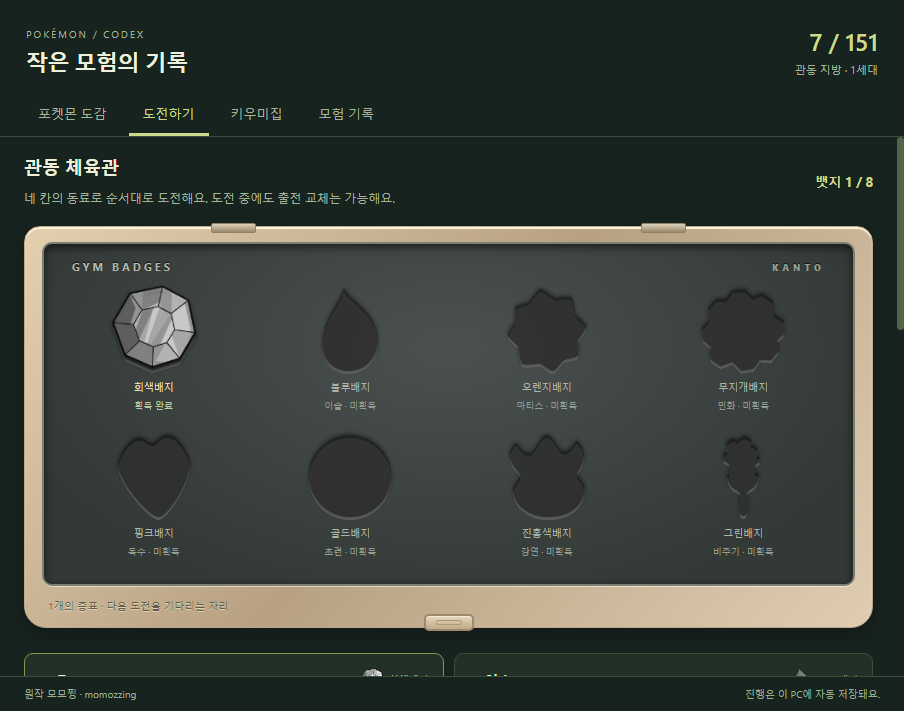
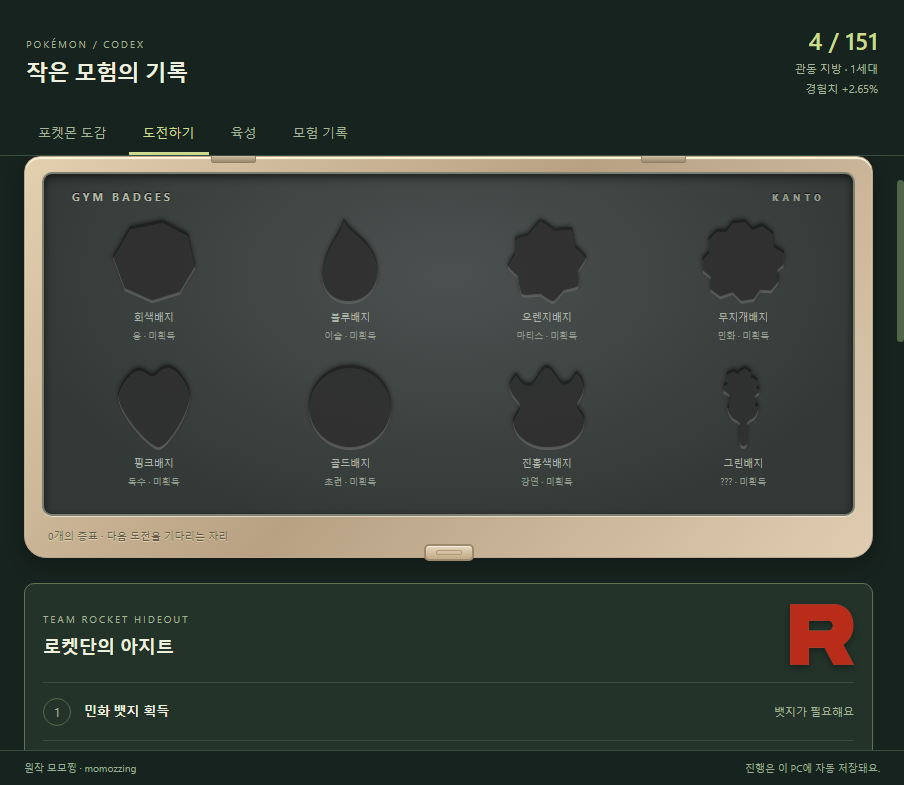
Keep the last gym leader and champion secret until encountered

diff --git a/desktop/panels.js b/desktop/panels.js
@@ -65,12 +65,13 @@ function teamMembers(team){
   for(const p of team){const mon=node('span');mon.title='No.'+p.id+' · Lv.'+p.level;mon.append(img(p.id),document.createTextNode('Lv.'+p.level));row.append(mon);}
   return row;
 }
+function trainerTeam(boss){return boss.revealed===false?node('p','muted','포켓몬 편성 미공개'):teamMembers(boss.team);}
 let shownBadges=null;
 function badgeImage(boss,className=''){
   const image=node('img',className);image.src='assets/badges/'+boss.id+'.png';image.alt='';image.draggable=false;return image;
 }
 function renderBadgeCase(){
-  const earned=new Set(state.badges),signature=state.badges.join(',');
+  const earned=new Set(state.badges),signature=JSON.stringify([state.badges,state.bosses.slice(0,8).map(b=>b.revealed)]);
   if($('badge-slots').dataset.signature===signature)return;
   $('badge-slots').dataset.signature=signature;
   $('badge-slots').replaceChildren(...state.bosses.slice(0,8).map((boss,i)=>{
@@ -87,19 +88,22 @@ function renderBadgeCase(){
 }
 function renderBosses(){
   renderStory();
-  const busy=state.battle?.kind==='trainer',queued=state.pendingChallenge,signature=JSON.stringify([state.badges,state.gymAccess,state.trainingDevice.routeOpen,state.battle,queued,state.champion,state.leagueBest,state.johtoUnlocked,state.johtoDeferred,state.kantoCaughtCount,state.encounterBonus]);if(signature===bossSignature)return;bossSignature=signature;
+  const busy=state.battle?.kind==='trainer',queued=state.pendingChallenge,signature=JSON.stringify([state.badges,state.bosses.map(b=>b.revealed),state.gymAccess,state.trainingDevice.routeOpen,state.battle,queued,state.champion,state.leagueBest,state.johtoUnlocked,state.johtoDeferred,state.kantoCaughtCount,state.encounterBonus]);if(signature===bossSignature)return;bossSignature=signature;
   $('badges').textContent='뱃지 '+state.badges.length+' / 8';
   renderBadgeCase();
   $('gyms').replaceChildren(...state.bosses.slice(0,8).map((boss,i)=>{
     const done=state.badges.includes(boss.id),card=node('article','gym'+(done?' done':'')),title=node('div','gym-title'),badge=node('span','badge');badge.append(badgeImage(boss,'gym-badge'),document.createTextNode(boss.badge));title.append(node('h3','',(i+1)+'. '+boss.name),badge);
-    const body=node('div','gym-body'),info=node('div','gym-info'),face=node('div','gym-portrait'),portrait=node('img','gym-trainer'),[width,x,y,size]=trainerFaces[boss.id];portrait.src='assets/trainers/'+boss.id+'.png';portrait.alt=boss.name+' · 원작 얼굴 초상화';portrait.draggable=false;portrait.style.width=width/size*100+'%';portrait.style.left=-x/size*100+'%';portrait.style.top=-y/size*100+'%';face.dataset.trainer=boss.id;face.append(portrait);info.append(title,teamMembers(boss.team));body.append(info,face);card.append(body);
+    const body=node('div','gym-body'),info=node('div','gym-info'),face=node('div','gym-portrait');face.dataset.trainer=boss.id;
+    if(boss.revealed===false){face.classList.add('unknown');face.textContent='?';face.setAttribute('aria-label','아직 만나지 않은 관장');}
+    else{const portrait=node('img','gym-trainer'),[width,x,y,size]=trainerFaces[boss.id];portrait.src='assets/trainers/'+boss.id+'.png';portrait.alt=boss.name+' · 원작 얼굴 초상화';portrait.draggable=false;portrait.style.width=width/size*100+'%';portrait.style.left=-x/size*100+'%';portrait.style.top=-y/size*100+'%';face.append(portrait);}
+    info.append(title,trainerTeam(boss));body.append(info,face);card.append(body);
     const roadLocked=i===4&&!state.trainingDevice.routeOpen,b=node('button','',done?'뱃지 획득 완료':queued?.index===i?'도전 예약됨':roadLocked?'길을 막는 잠만보 해결 시 해금':i>state.badges.length?'앞선 체육관 뱃지가 필요해요':'도전하기');b.dataset.challenge=i;b.disabled=done||busy||!!queued||!state.gymAccess[i];b.onclick=()=>window.buddy.action('challenge',i);card.append(b);return card;
   }));
   $('ongoing').hidden=!busy&&!queued;
   if(queued){$('ongoing').replaceChildren(node('span','',queued.name+' 도전 예약 · '+(state.battle?'현재 배틀이 끝나면 시작해요.':'마지막 연출이 끝나면 시작해요.')));const b=node('button','','예약 취소');b.dataset.cancelChallenge='';b.onclick=()=>window.buddy.action('challenge-cancel');$('ongoing').append(b);}
   else if(busy){$('ongoing').replaceChildren(node('span','',state.battle.boss+' · '+(state.battle.foeIndex+1)+' / '+state.battle.teamSize+'마리와 배틀 중'));const b=node('button','','도전 그만두기');b.onclick=()=>window.buddy.action('abandon');$('ongoing').append(b);}
   $('league-start').disabled=state.badges.length<8||busy||!!queued;$('league-start').textContent=queued?.index===8?'리그 도전 예약됨':state.champion?'리그 재도전':'리그 도전';
-  $('league-team').replaceChildren(...state.bosses.slice(8).map((b,i)=>{const e=node('article','league-member');e.append(node('h3','',(i===4?'챔피언 ':'')+b.name),teamMembers(b.team));return e;}));
+  $('league-team').replaceChildren(...state.bosses.slice(8).map((b,i)=>{const e=node('article','league-member');e.append(node('h3','',(i===4?'챔피언 ':'')+b.name),trainerTeam(b));return e;}));
   $('league-progress').textContent=state.champion?(state.johtoUnlocked?'관동 챔피언 · 성도 지방 해금 완료':'관동 챔피언 · 151종을 모으며 머물거나 원할 때 2세대를 해금하세요.'):'리그 최고 기록 '+state.leagueBest+' / 5 · 챔피언이 되면 출현 보너스와 2세대 해금 선택권을 얻어요.';
   $('johto-choice').hidden=!state.champion;
   if(state.champion){

diff --git a/desktop/panels.css b/desktop/panels.css
@@ -1,4 +1,5 @@
 :root{--bg:#17231e;--panel:#233128;--line:#3a4c3c;--ink:#eef0de;--muted:#a4b499;--accent:#cbda8d;color-scheme:dark}
+.gym-portrait.unknown{display:grid;place-items:center;color:var(--muted);font-size:34px;font-weight:300}
 .rocket-heading{display:flex;align-items:center;justify-content:space-between;gap:18px;margin-bottom:16px}.rocket-heading h2{margin-bottom:0!important}.rocket-logo{width:64px;height:64px;object-fit:contain;flex-shrink:0;filter:drop-shadow(0 3px 3px #0005)}.gym-body{display:flex;align-items:center;gap:14px;margin-bottom:12px;min-height:100px}.gym-info{flex:1;min-width:0}.gym-info .gym-title{flex-wrap:wrap;align-items:flex-start;gap:7px}.gym-portrait{position:relative;overflow:hidden;width:88px;height:88px;flex-shrink:0;border:1px solid #526348;border-radius:7px;background:#172a20}.gym-trainer{position:absolute;height:auto;max-width:none;pointer-events:none;filter:drop-shadow(0 2px 2px #0004)}@media(max-width:750px){.gym-body{gap:10px;min-height:84px}.gym-portrait{width:72px;height:72px}.rocket-logo{width:54px;height:54px}}
 .story-board{padding:18px;margin-bottom:18px;border:1px solid #607253;border-radius:10px;background:#233329}.story-board h2{font-size:18px;margin:8px 0 16px}.story-board>p{font-size:12px;line-height:1.7}.rocket-steps{list-style:none;counter-reset:rocket-step;margin:0;padding:0}.rocket-step{counter-increment:rocket-step;display:flex;align-items:center;gap:13px;padding:12px 0;border-top:1px solid var(--line);min-height:58px}.rocket-step::before{content:counter(rocket-step);display:grid;place-items:center;flex:0 0 26px;height:26px;border:1px solid #56674a;border-radius:50%;font-size:12px;color:var(--muted)}.rocket-step b{flex:1;font-size:13px;line-height:1.6}.rocket-step>.muted{font-size:11px}.rocket-step.done::before{color:var(--accent);border-color:#839550}.rocket-step.done b{color:var(--accent)}.rocket-step button{min-width:96px;font-size:11px;margin:0}.snorlax-encounter{display:flex;align-items:center;gap:20px;padding:12px;background:#172a20;border-radius:7px}.snorlax-sprite{width:80px;height:80px;object-fit:contain;image-rendering:pixelated}.snorlax-body b{font-size:13px}.snorlax-body p{font-size:11px;margin:7px 0}.snorlax-body button{font-size:11px;margin:0}.device-quest>#device-locked{margin:0;font-size:11px}@media(max-width:750px){.story-board{padding:15px}.rocket-step{gap:10px}.rocket-step b{font-size:12px}.rocket-step button{min-width:85px}.snorlax-encounter{gap:14px}}
 .flute-status{display:flex;align-items:center;gap:12px;margin:12px 0;padding:10px;background:#172a20;border-radius:7px}.flute-status img{width:48px;height:48px;image-rendering:pixelated}.flute-status b{font-size:12px;color:var(--accent)}.flute-status p{font-size:11px;line-height:1.6;color:var(--muted);margin:5px 0}

diff --git a/README.md b/README.md
@@ -6,7 +6,7 @@
 
 **[Windows 실행 파일 받기 · 최신 릴리스](https://github.com/Bakzzi/Pokemon_codex/releases/latest)**
 
-릴리스의 `Pokemon-Codex-0.3.28-portable.zip`을 받아 압축을 풀고 `PokemonCodex.exe`를 실행하세요. ZIP 안의 폴더와 파일을 함께 유지하면 됩니다. 소스 코드 ZIP은 실행 파일 배포본과 다릅니다.
+릴리스의 `Pokemon-Codex-0.3.29-portable.zip`을 받아 압축을 풀고 `PokemonCodex.exe`를 실행하세요. ZIP 안의 폴더와 파일을 함께 유지하면 됩니다. 소스 코드 ZIP은 실행 파일 배포본과 다릅니다.
 
 ![코딩과 함께하는 포켓몬 위젯](docs/screenshots/widget.png)
 
@@ -142,15 +142,15 @@ PokeAPI의 파이어레드·리프그린 레벨업 기술표, 3세대 당시 위
 
 **관동 뱃지 홀더**에 여덟 뱃지가 두 줄로 놓입니다. 미획득 칸은 해당 뱃지 모양으로 파인 빈 홈이며, 관장에게 승리하면 실제 뱃지 이미지가 자리 잡고 짧게 빛납니다. 기존에 얻은 뱃지도 저장된 획득 상태에 맞춰 나타납니다. 뱃지 칸을 누르면 해당 체육관으로 이동합니다.
 
-로켓단 아지트에는 원작 R 마크를 표시하며, 여덟 관장 카드에는 파이어레드·리프그린 원작 일러스트의 **얼굴 부분을 초상화로** 표시합니다. 관장마다 얼굴 위치를 맞추고 이름·뱃지·포켓몬 편성과 함께 배치합니다. 그림은 앱에 포함해 로컬에서 불러옵니다. 원본 출처와 파일 해시는 `desktop/assets/trainers/sources.json`, `desktop/assets/logos/sources.json`에 기록했습니다.
+로켓단 아지트에는 원작 R 마크를 표시하며, 관장 카드에는 파이어레드·리프그린 원작 일러스트의 **얼굴 부분을 초상화로** 표시합니다. 관장마다 얼굴 위치를 맞추고 이름·뱃지·포켓몬 편성과 함께 배치합니다. **8번째 관장은 실제 배틀에서 만나기 전까지 이름·얼굴·편성을 가립니다.** 그림은 앱에 포함해 로컬에서 불러옵니다. 원본 출처와 파일 해시는 `desktop/assets/trainers/sources.json`, `desktop/assets/logos/sources.json`에 기록했습니다.
 
 ![관장 얼굴 초상화와 도전 카드](docs/screenshots/gym-leaders.png)
 
 ![관동 뱃지 홀더](docs/screenshots/badge-case.png)
 
-**도전하기**에서 웅 → 이슬 → 마티스 → 민화 → 독수 → 초련 → 강연 → 비주기 순으로 도전합니다. 민화 이후에는 길을 막는 잠만보를 포획하거나 기절시켜야 독수에게 도전할 수 있습니다. 상대 편성·레벨·기술은 파이어레드 첫 도전 자료를 기준으로 합니다.
+**도전하기**에서 웅 → 이슬 → 마티스 → 민화 → 독수 → 초련 → 강연 → **???** 순으로 도전합니다. 민화 이후에는 길을 막는 잠만보를 포획하거나 기절시켜야 독수에게 도전할 수 있습니다. 상대 편성·레벨·기술은 파이어레드 첫 도전 자료를 기준으로 합니다. 마지막 관장의 이름은 뱃지 홀더와 도전 예약에도 미리 표시하지 않습니다.
 
-뱃지 8개를 모으면 **칸나 → 시바 → 국화 → 목호 → 챔피언 그린**에게 연속 도전합니다. 리그 다섯 경기 동안 HP·PP는 이어집니다. 그린의 편성은 리자몽을 가진 분기로 고정합니다.
+뱃지 8개를 모으면 **칸나 → 시바 → 국화 → 목호 → 챔피언 ???**에게 연속 도전합니다. 리그 다섯 경기 동안 HP·PP는 이어집니다. 챔피언의 정체와 편성은 실제 배틀에서 만날 때 공개합니다. 한번 만난 비밀 인물은 패배·중단·재시작 후에도 공개 상태를 유지합니다.
 
 **한 번 뱃지를 얻은 관장에게는 재도전할 수 없습니다.** 화면 버튼과 게임 처리 양쪽에서 차단합니다. 패배하거나 중단한 관장은 다시 도전할 수 있고, 리그 재도전은 가능합니다. **관장·사천왕·챔피언의 포켓몬은 포획되지 않습니다.**
 
